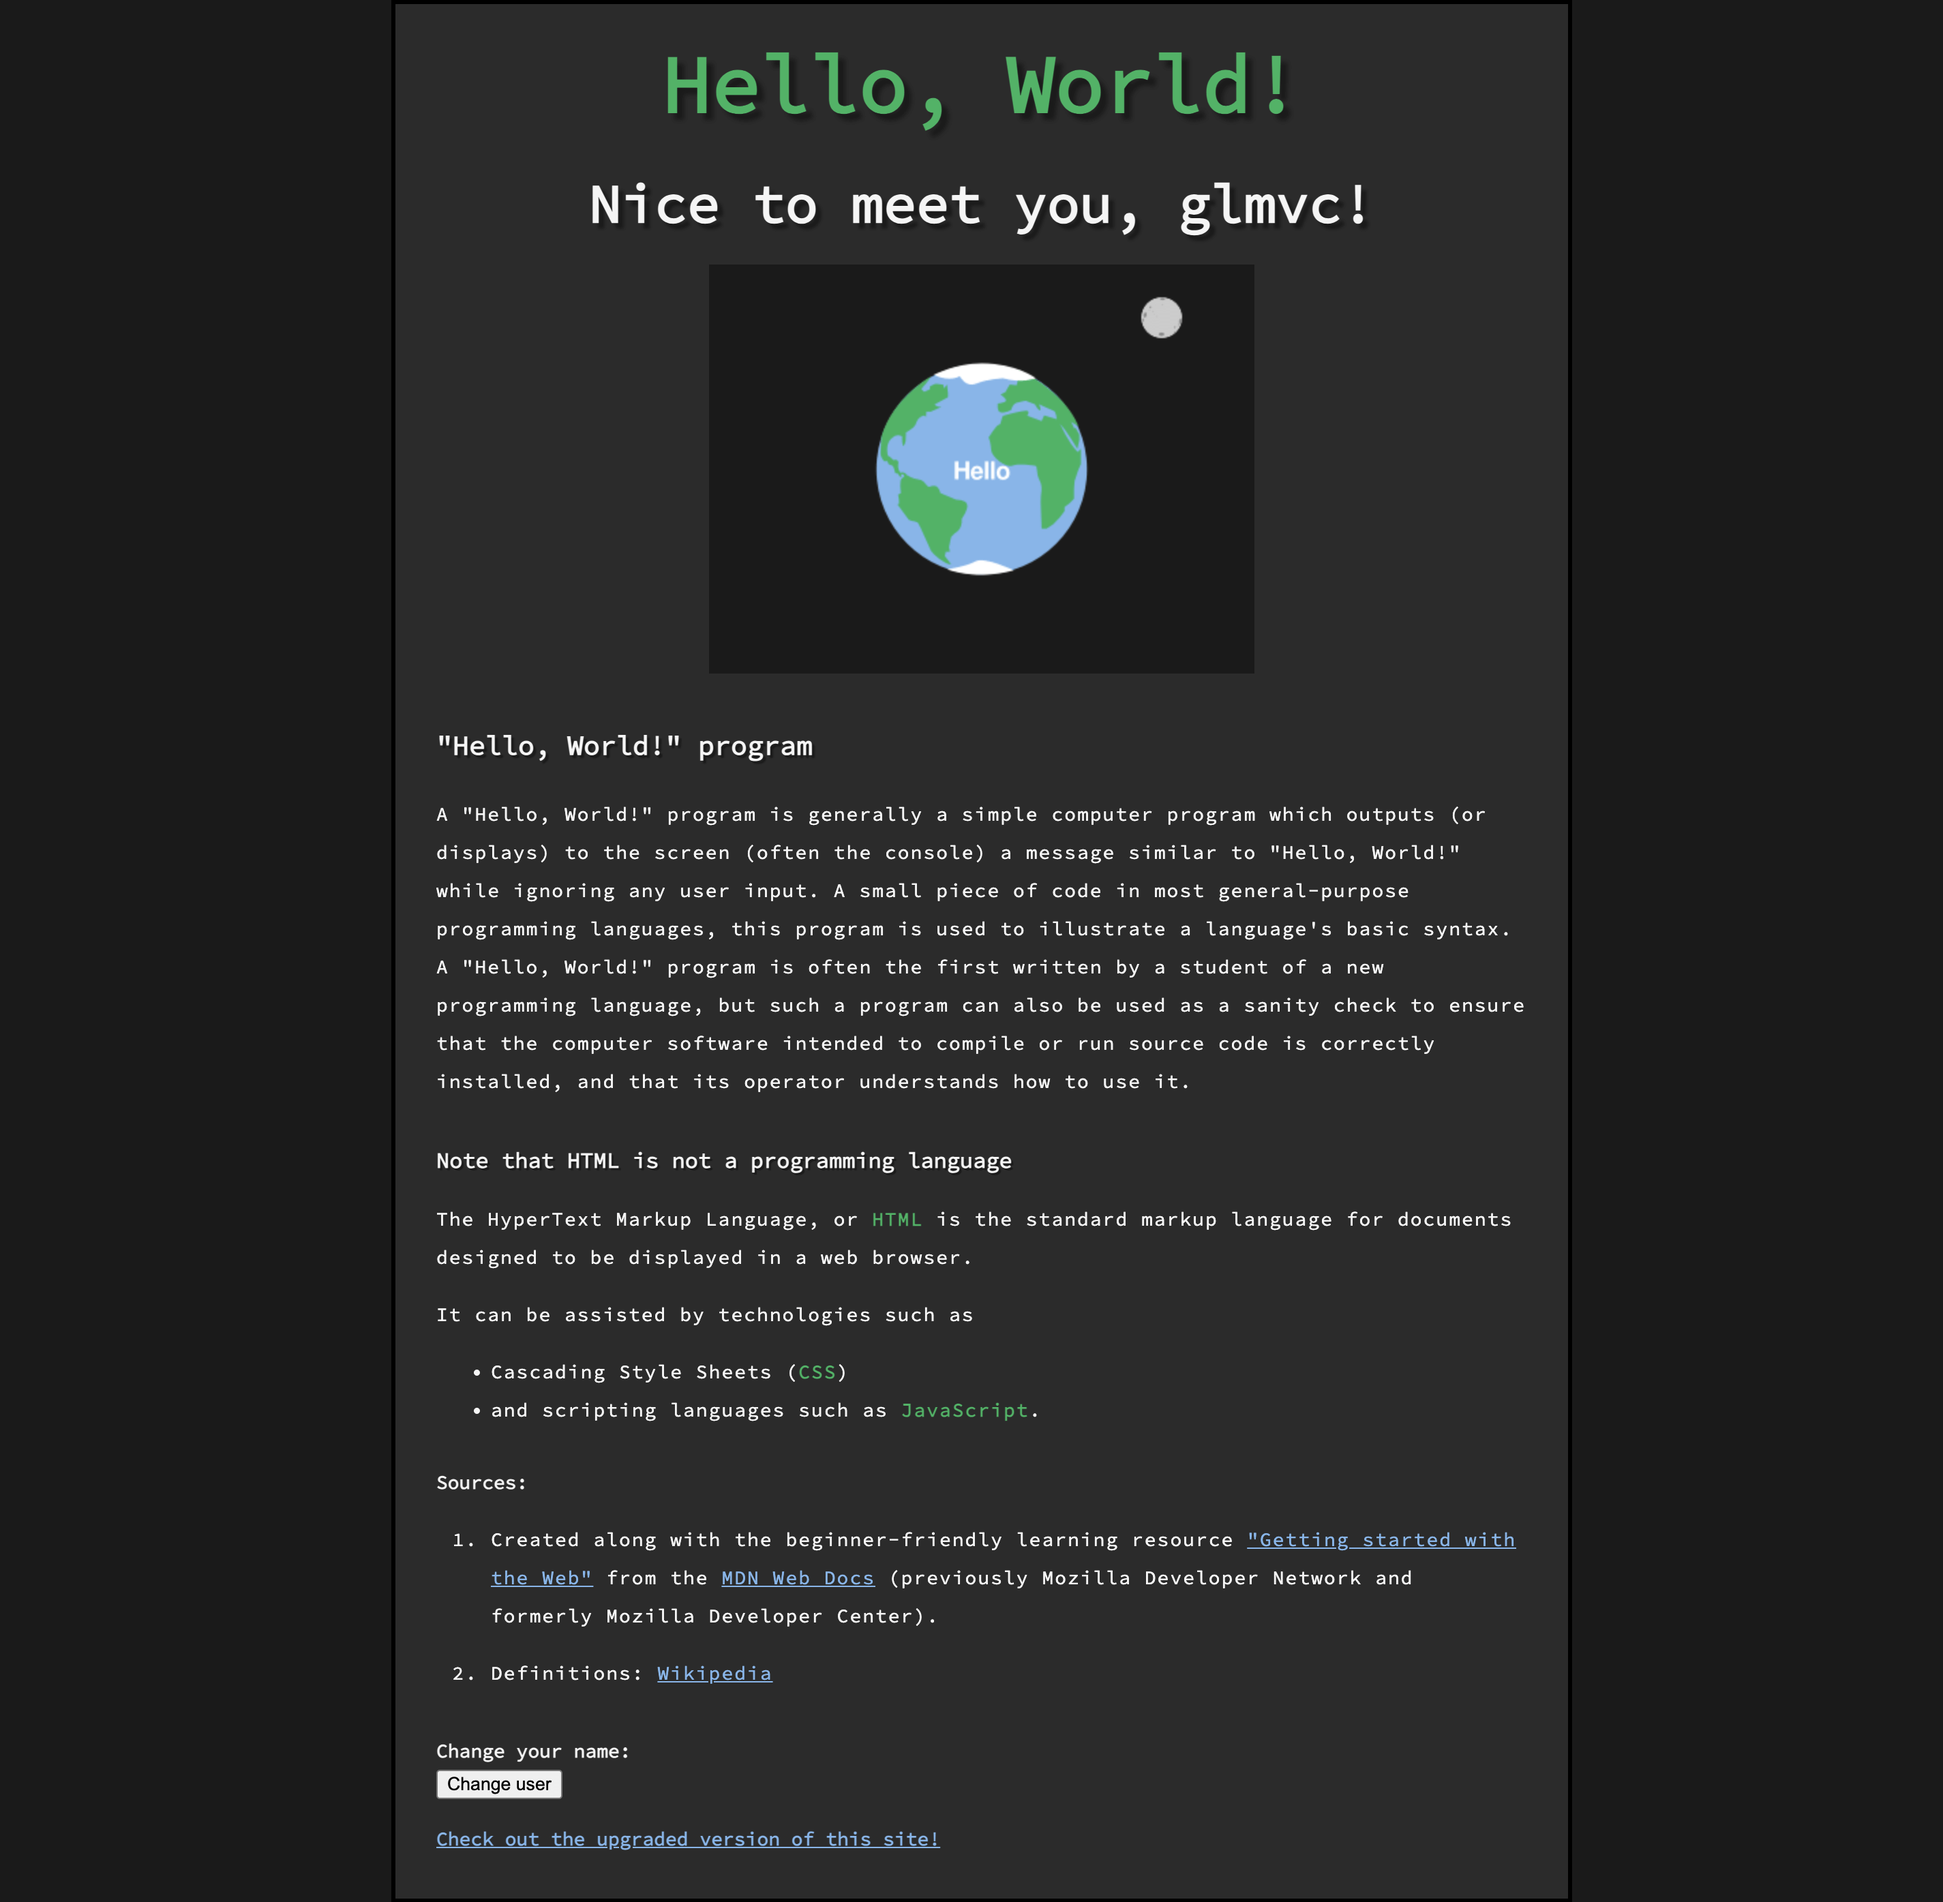
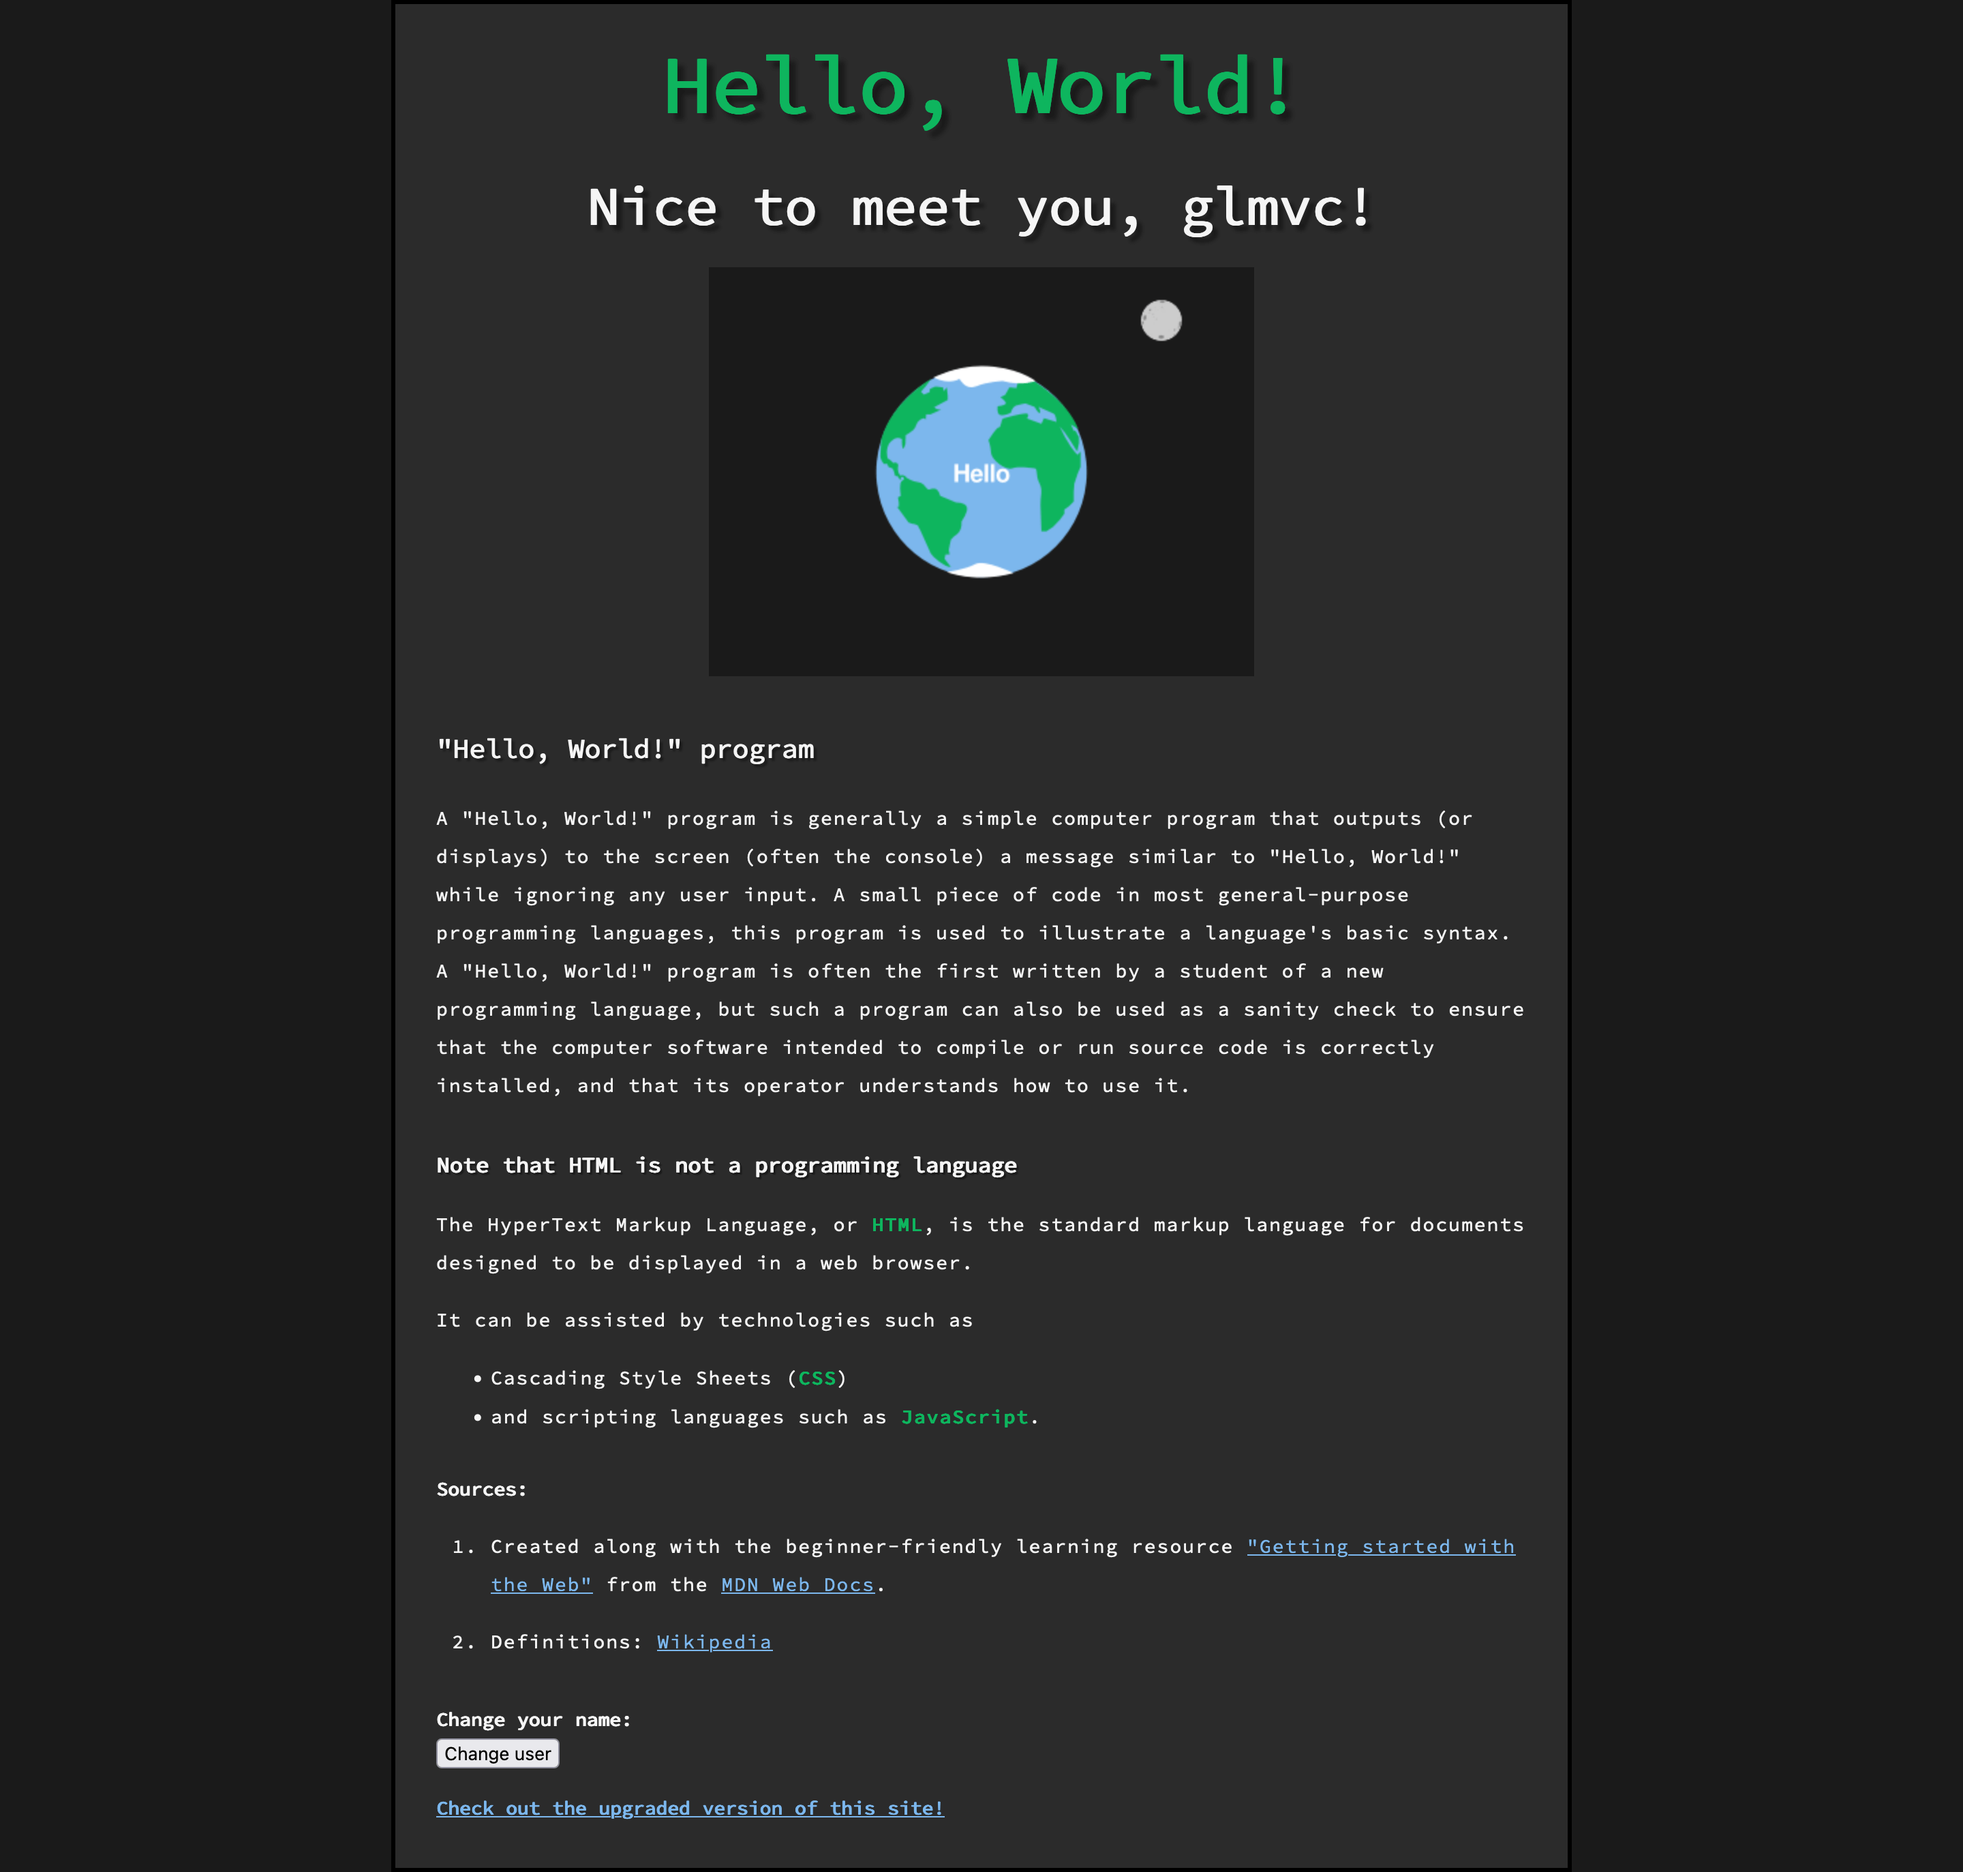
fix minor text errors

diff --git a/index.html b/index.html
@@ -11,9 +11,9 @@
         <h2>Nice to meet you!</h2>
         <img src="images/hello-world.png" alt="the earth saying hello and the moon">
         <h3>"Hello, World!" program</h3>
-        <p>A "Hello, World!" program is generally a simple computer program which outputs (or displays) to the screen (often the console) a message similar to "Hello, World!" while ignoring any user input. A small piece of code in most general-purpose programming languages, this program is used to illustrate a language's basic syntax. A "Hello, World!" program is often the first written by a student of a new programming language, but such a program can also be used as a sanity check to ensure that the computer software intended to compile or run source code is correctly installed, and that its operator understands how to use it.</p>
+        <p>A "Hello, World!" program is generally a simple computer program that outputs (or displays) to the screen (often the console) a message similar to "Hello, World!" while ignoring any user input. A small piece of code in most general-purpose programming languages, this program is used to illustrate a language's basic syntax. A "Hello, World!" program is often the first written by a student of a new programming language, but such a program can also be used as a sanity check to ensure that the computer software intended to compile or run source code is correctly installed, and that its operator understands how to use it.</p>
         <h4>Note that HTML is not a programming language</h4>
-        <p>The HyperText Markup Language, or <strong>HTML</strong> is the standard markup language for documents designed to be displayed in a web browser.</p>
+        <p>The HyperText Markup Language, or <strong>HTML</strong>, is the standard markup language for documents designed to be displayed in a web browser.</p>
         <p>It can be assisted by technologies such as</p>
         <ul>
             <li>Cascading Style Sheets (<strong>CSS</strong>)</li>
@@ -22,7 +22,7 @@
         <h5>Sources:</h5>
         <ol>
             <li>
-                <p>Created along with the beginner-friendly learning resource <a href="https://developer.mozilla.org/en-US/docs/Learn/Getting_started_with_the_web">"Getting started with the Web"</a> from the <a href="https://developer.mozilla.org/en-US/">MDN Web Docs</a> (previously Mozilla Developer Network and formerly Mozilla Developer Center).</p>
+                <p>Created along with the beginner-friendly learning resource <a href="https://developer.mozilla.org/en-US/docs/Learn/Getting_started_with_the_web">"Getting started with the Web"</a> from the <a href="https://developer.mozilla.org/en-US/">MDN Web Docs</a>.</p>
             </li>
             <li>
                 <p>Definitions: <a href="https://wikipedia.org/">Wikipedia</a></p>

diff --git a/README.md b/README.md
@@ -13,7 +13,7 @@
 
 - the site has content (with hyperlinks) 📰
 - it's styled 🎨
-- clicking the image will show another one 🖼
+- clicking on the image will show another one 🖼
 - the user is asked for a name, which is displayed under the main heading and can also be changed by clicking the button 🪄
 - the website is online using [github pages](https://pages.github.com/ "github pages website") 🌎
 
@@ -32,7 +32,7 @@
 #### 👾 and here are the lines of code for my first-site
 
 - as a complete beginner, the following just looks impressive - i was surprised myself at what i achieved 🤩
-- but you'll see once you get started, it's not that difficult at all ⚡
+- but you'll see, once you get started, it's not that difficult at all ⚡
 
 ##### HTML
 
@@ -50,9 +50,9 @@
         <h2>Nice to meet you!</h2>
         <img src="images/hello-world.png" alt="the earth saying hello and the moon">
         <h3>"Hello, World!" program</h3>
-        <p>A "Hello, World!" program is generally a simple computer program which outputs (or displays) to the screen (often the console) a message similar to "Hello, World!" while ignoring any user input. A small piece of code in most general-purpose programming languages, this program is used to illustrate a language's basic syntax. A "Hello, World!" program is often the first written by a student of a new programming language, but such a program can also be used as a sanity check to ensure that the computer software intended to compile or run source code is correctly installed, and that its operator understands how to use it.</p>
+        <p>A "Hello, World!" program is generally a simple computer program that outputs (or displays) to the screen (often the console) a message similar to "Hello, World!" while ignoring any user input. A small piece of code in most general-purpose programming languages, this program is used to illustrate a language's basic syntax. A "Hello, World!" program is often the first written by a student of a new programming language, but such a program can also be used as a sanity check to ensure that the computer software intended to compile or run source code is correctly installed, and that its operator understands how to use it.</p>
         <h4>Note that HTML is not a programming language</h4>
-        <p>The HyperText Markup Language, or <strong>HTML</strong> is the standard markup language for documents designed to be displayed in a web browser.</p>
+        <p>The HyperText Markup Language, or <strong>HTML</strong>, is the standard markup language for documents designed to be displayed in a web browser.</p>
         <p>It can be assisted by technologies such as</p>
         <ul>
             <li>Cascading Style Sheets (<strong>CSS</strong>)</li>
@@ -61,7 +61,7 @@
         <h5>Sources:</h5>
         <ol>
             <li>
-                <p>Created along with the beginner-friendly learning resource <a href="https://developer.mozilla.org/en-US/docs/Learn/Getting_started_with_the_web">"Getting started with the Web"</a> from the <a href="https://developer.mozilla.org/en-US/">MDN Web Docs</a> (previously Mozilla Developer Network and formerly Mozilla Developer Center).</p>
+                <p>Created along with the beginner-friendly learning resource <a href="https://developer.mozilla.org/en-US/docs/Learn/Getting_started_with_the_web">"Getting started with the Web"</a> from the <a href="https://developer.mozilla.org/en-US/">MDN Web Docs</a>.</p>
             </li>
             <li>
                 <p>Definitions: <a href="https://wikipedia.org/">Wikipedia</a></p>
